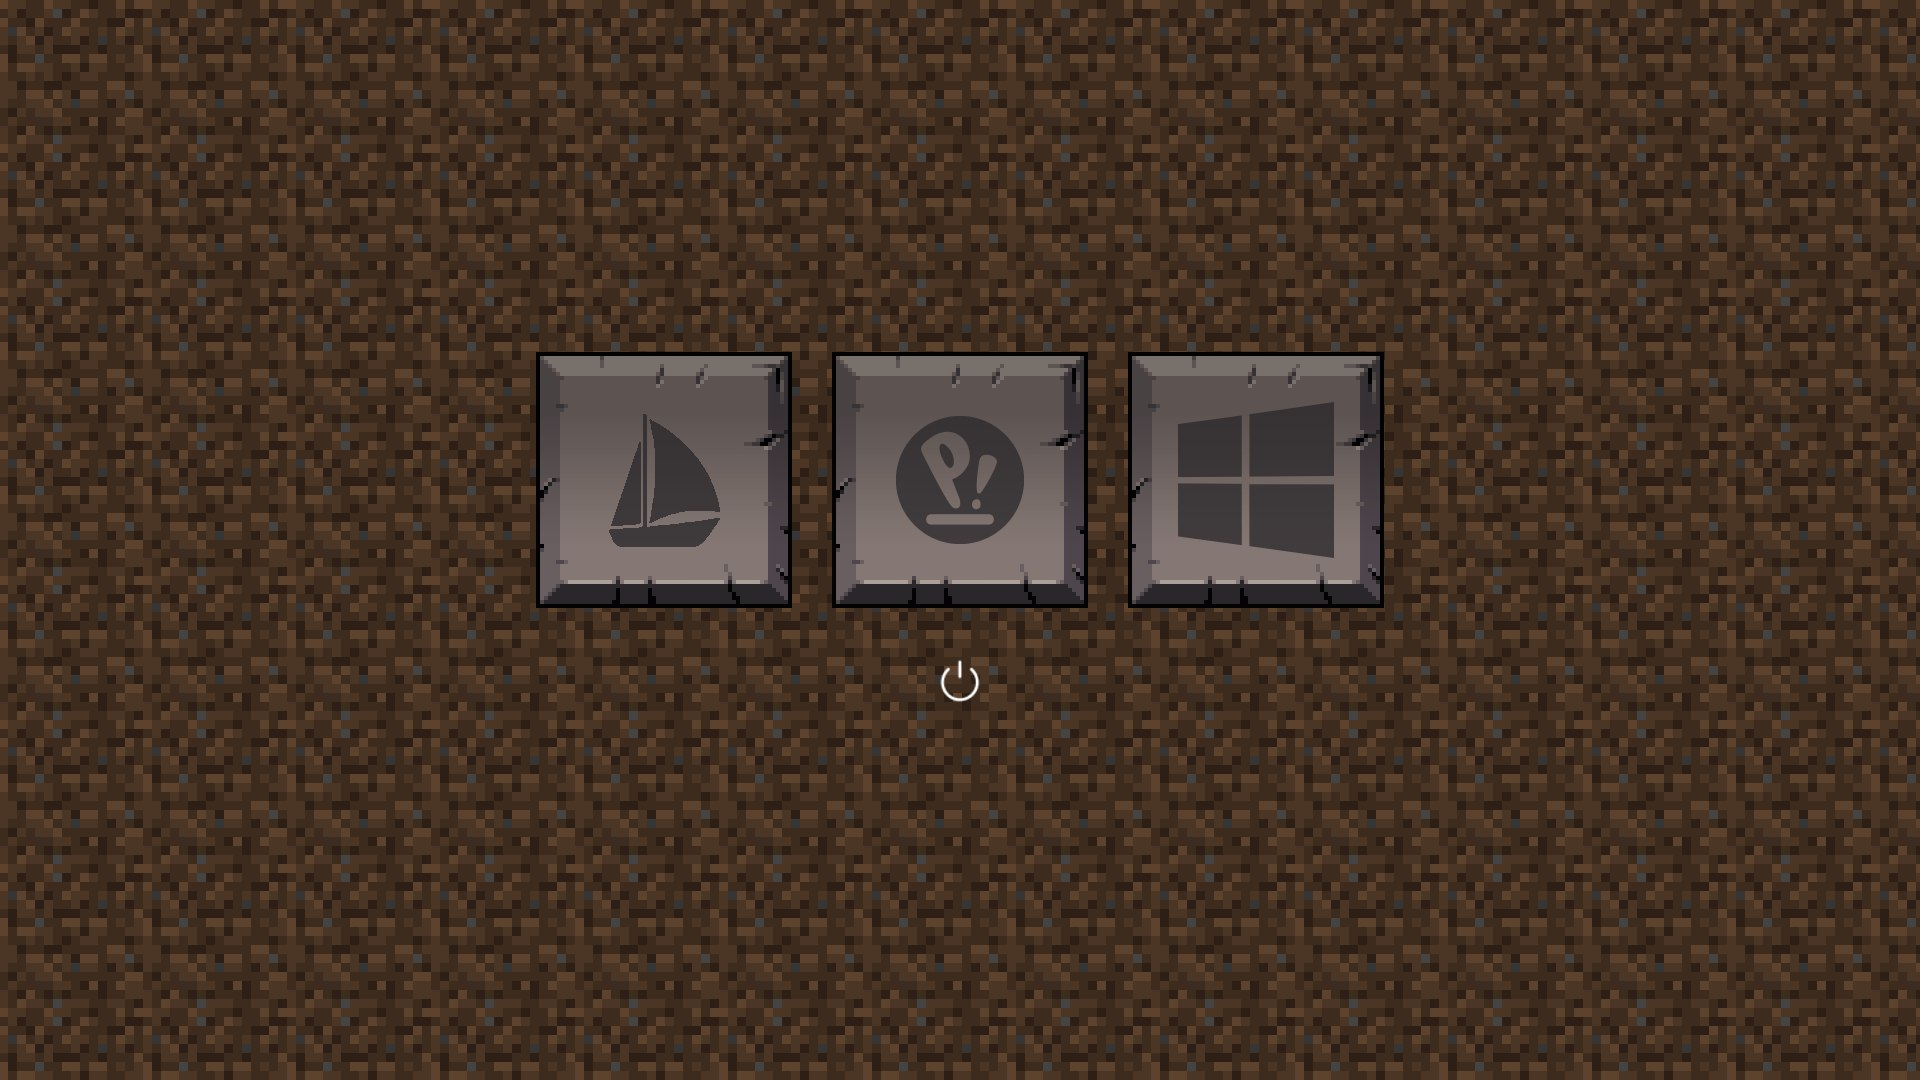
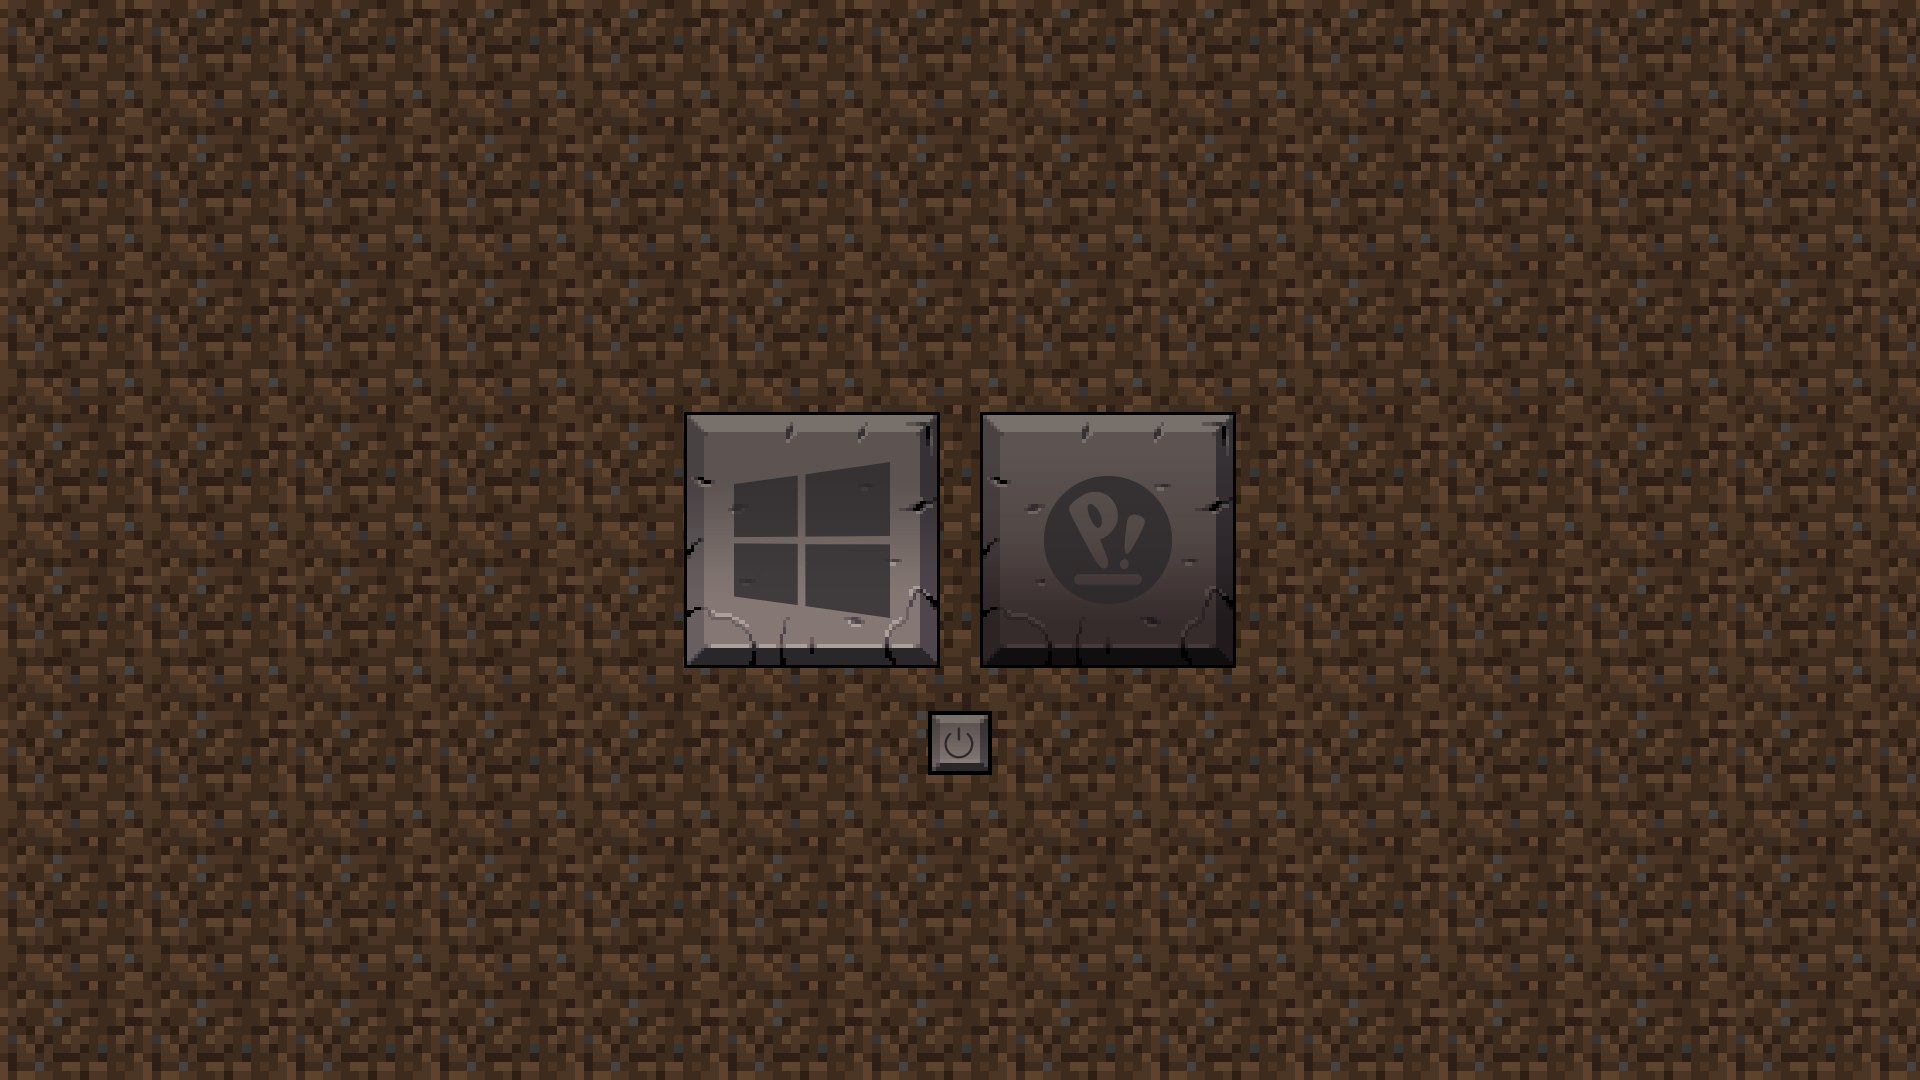
Updated the readme...

Changed region(s): [[0.2812, 0.3056, 0.7188, 0.7333]]

diff --git a/README.md b/README.md
@@ -4,21 +4,49 @@ A Minecraft theme for [rEFInd](https://rodsbooks.com/refind/).
 
 ![Preview](preview.jpg)
 
-# DO NOT USE IT YET
-# DO NOT USE IT YET
-# DO NOT USE IT YET
-# DO NOT USE IT YET
+**Do not use the `install.sh` script**
 
-(The preview image is made in Pixelitor, not what it actually looks like)
-((There are some more changes in the way))
-(((Need testing)))
+### Problems First
+* Bakes the icons to background, so that the button hover 
+effect can be imitated. This means if someday a new OS is added,
+the boot menu will look strange (Button borders remain constant,
+icons present overlap with the buttons).
+* How to fix that? Re-build and re-install the theme.
+* There are a lot of magic constants around in the script I wrote.
+I myself don't understand why that's that way. I am not very 
+familiar with the rEFInd code base, so if someone can help, that 
+would be great.
+* The script is written in kotlin. IDK why, but I should have written 
+it in Python instead...
+* (((Need testing)))
+
+**Do not use the `install.sh` script**
+
+### So... What did I actually do?
+* As far as my meager understanding goes, the selection overlay is 
+drawn behind the icons. This makes drawing the button, which is 
+a 3 layer task (button up + (button down)? + icon) difficult.
+* So... Just merge the (button up) with the background xD
+
+**Do not use the `install.sh` script**
 
 ### Usage
 
-Clone this repository into a `themes` directory located inside the refind EFI directory
-(usually `/boot/EFI/refind`)
+Static:
+* run `kotlin Build.kt build`
+* This will generate a simple theme using [background](templates/bg_1080.png) 
+and merge the icons in [icons](icons) with [appropriate selection image](templates/button_big_alpha.png)
+* The selection will draw a white border around the icons.
 
-Then add `include themes/rEFInd-Minecraft/theme.conf` at the end of the refind.conf.
+Baked:
+* If you know the number of icons which will be shown, and they tend
+to remain constant for longer periods of time, then you can bake
+those icons into the background image.
+* run `kotlin Build.kt build bakebg bakebg.osicons=2 bakebg.othericons=1`
+* Replace the numbers accordingly.
+* This will merge [appropriate button up](templates/button_big_alpha.png)
+with the [background](templates/bg_1080.png) and replace selection
+with [appropriate button down](templates/button_down_big_alpha.png).
+* The selection will be drawn as if, the button was actually pressed.
 
-To hide unwanted options simply press delete while the icon is selected.
-To restore hidden icons use the lower right button.
+**Do not use the `install.sh` script**
